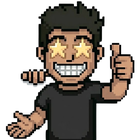
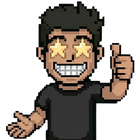
Actualiza mau-colgado.png y ajusta tamaños en la tarjeta de contacto
Reemplaza el pixel art de colgado con la versión nueva que se
actualizó en la carpeta fuente. Recorta el espacio vacío alrededor de
Ares y reduce su ancho de despliegue para que ambas imágenes queden
mejor balanceadas dentro de la tarjeta.

diff --git a/README.md b/README.md
@@ -169,8 +169,8 @@ Motor de prospección B2B geolocalizada — extracción y filtrado de leads desd
 
 <table>
 <tr>
-<td width="150" valign="middle" align="center">
-<img src="./assets/mau-ares.png" width="130" alt="Ares" />
+<td width="130" valign="middle" align="center">
+<img src="./assets/mau-ares.png" width="110" alt="Ares" />
 </td>
 <td valign="top" align="center">
 
